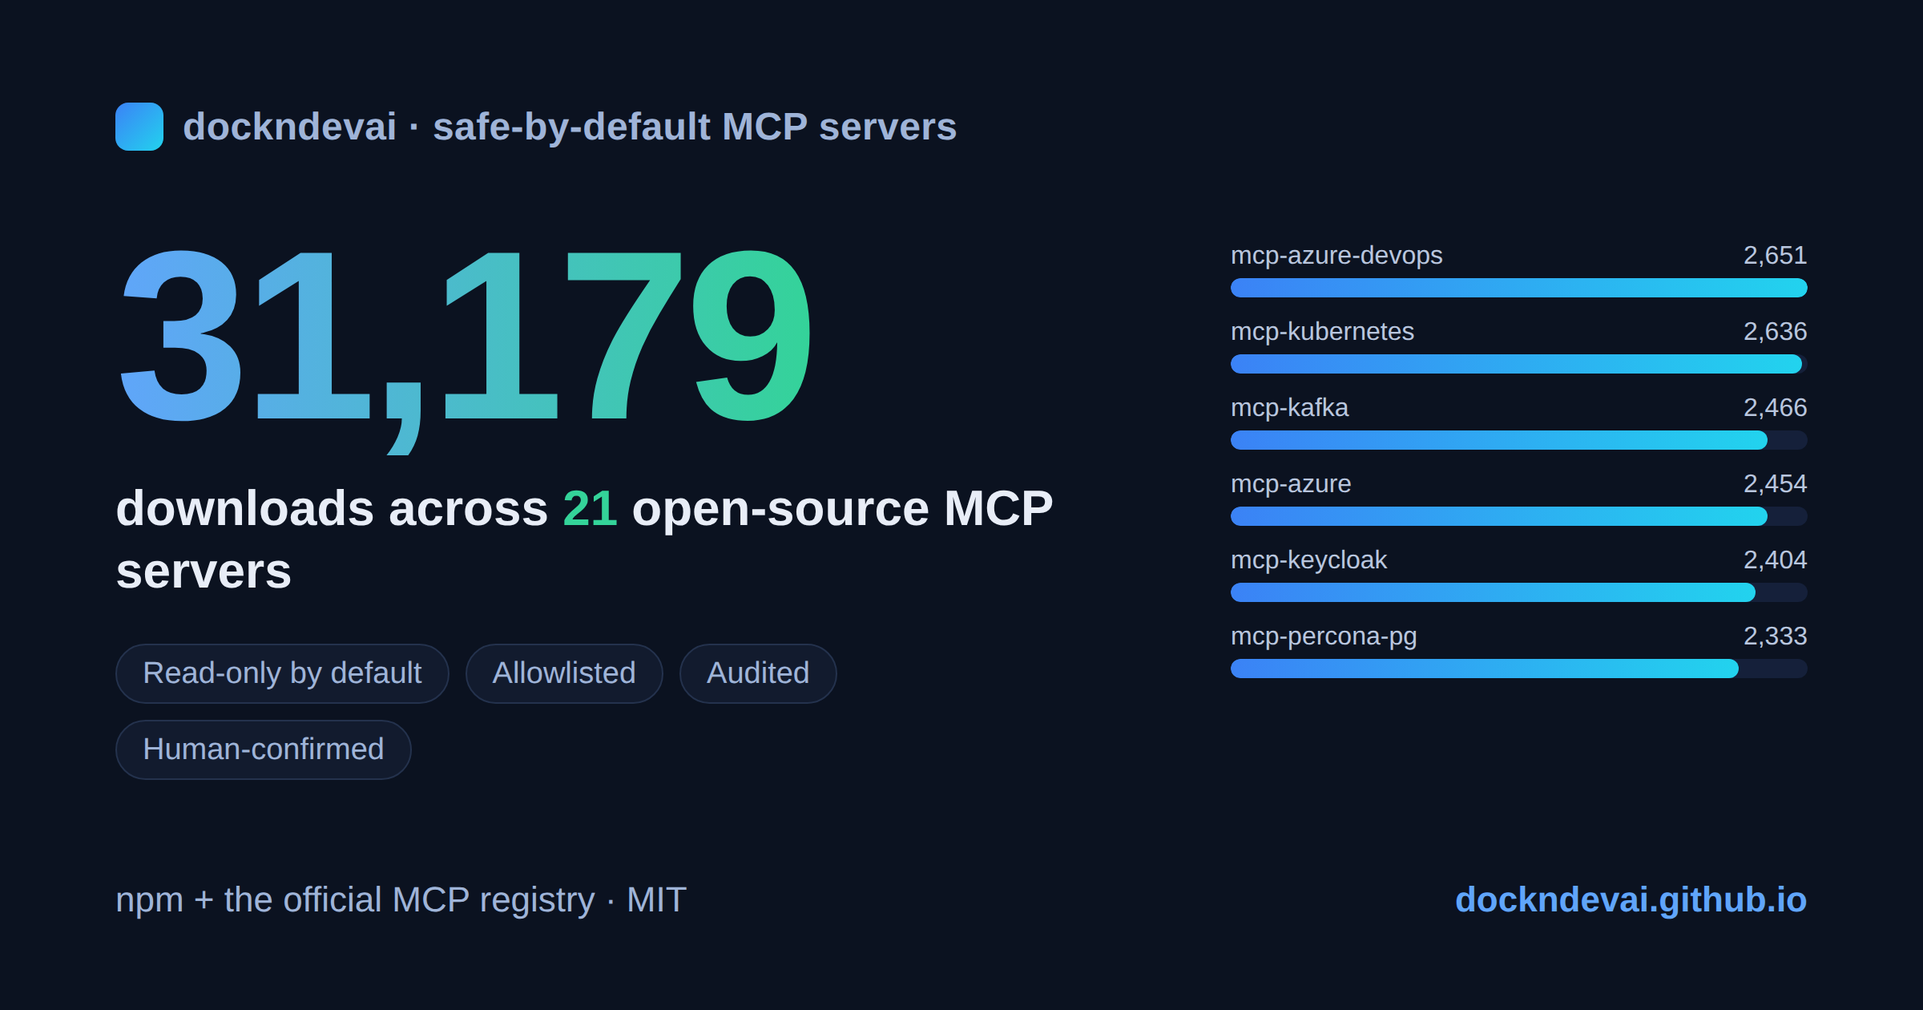
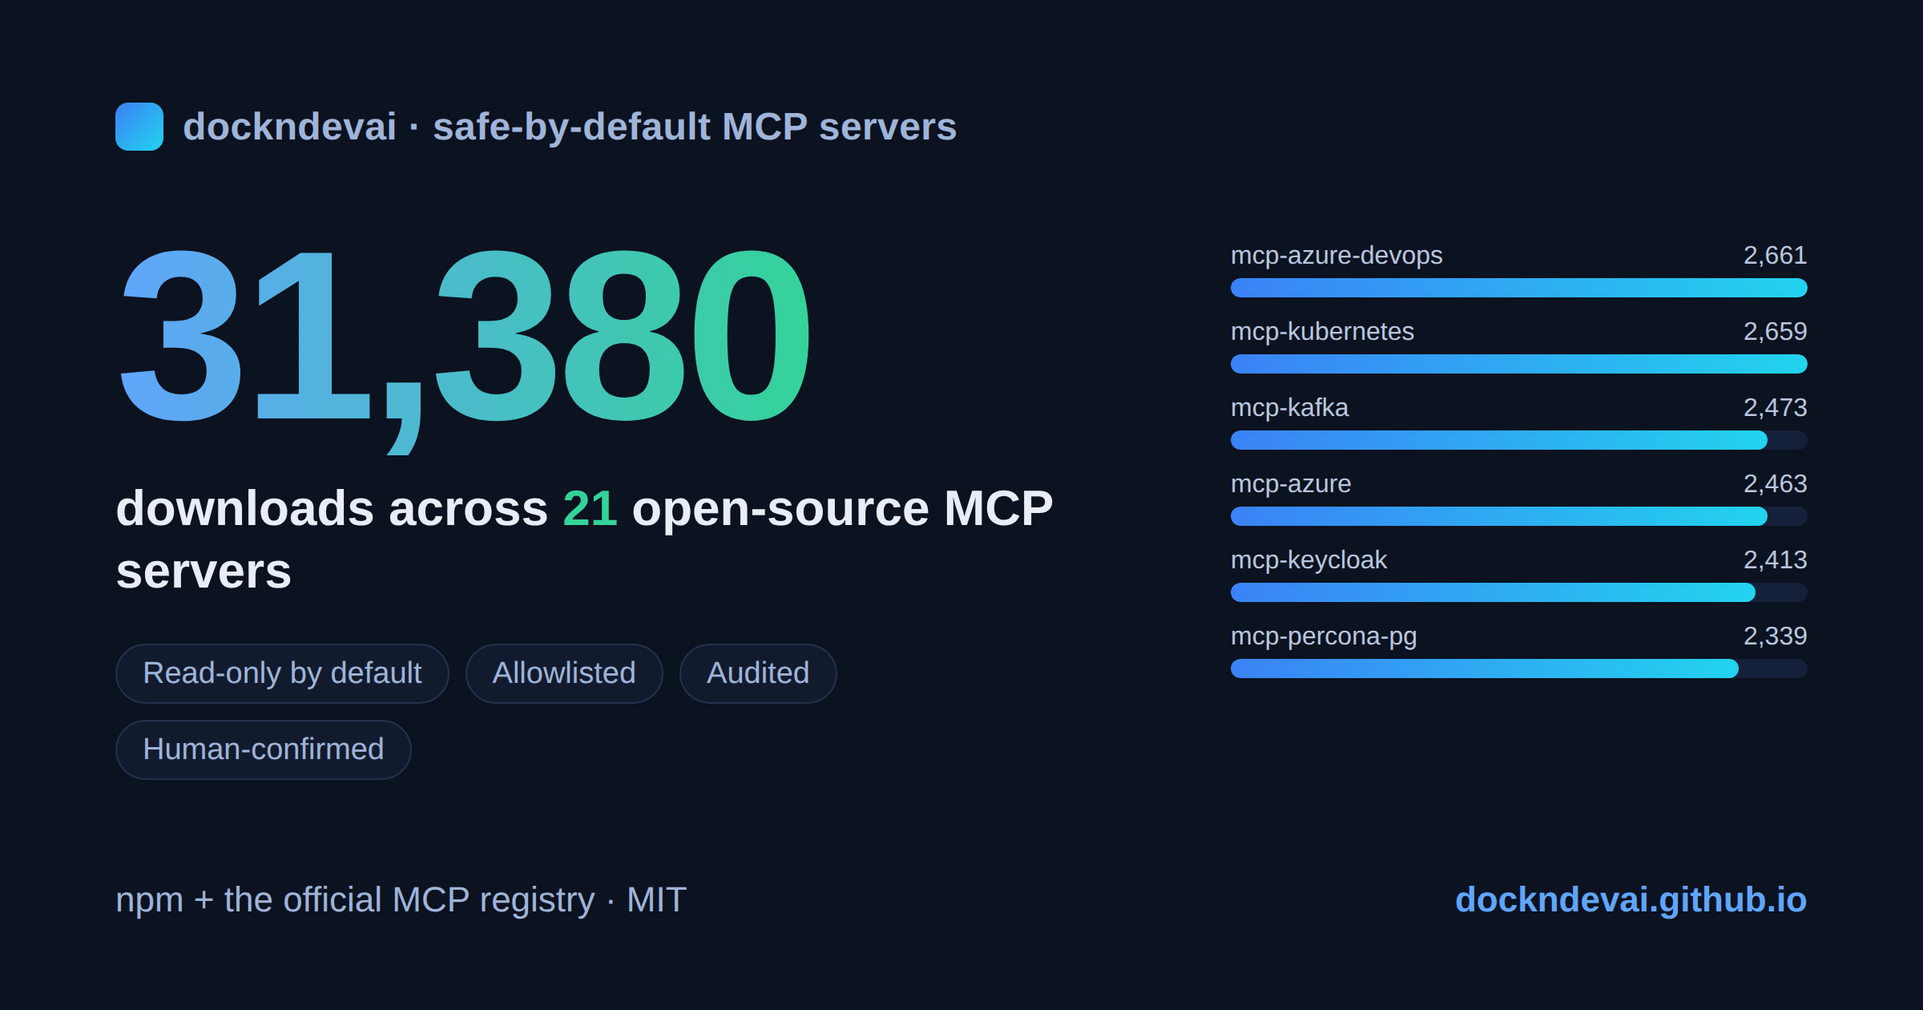
chore: refresh server list + downloads card from live data

diff --git a/index.html b/index.html
@@ -509,147 +509,147 @@
           <article class="srv" id="p-mcp-azure-devops">
             <div class="top"><h3><a href="https://github.com/dockndevai/mcp-azure-devops">mcp-azure-devops</a></h3><span class="tag k">TypeScript</span></div>
             <p>MCP server for Azure DevOps — boards, repos, pipelines, projects — with governance controls (access modes, project scoping, protected projects, delete gating, typed confirmation).</p>
-            <div class="meta"><span class="stat" title="GitHub stars">&#9733; 1</span><span class="stat" title="npm downloads, last 30 days">&#8595; 629/mo</span></div>
+            <div class="meta"><span class="stat" title="GitHub stars">&#9733; 1</span><span class="stat" title="npm downloads, last 30 days">&#8595; 635/mo</span></div>
             <div class="install"><code>npx -y @dockndevai/mcp-azure-devops</code><button class="copy" data-cmd="npx -y @dockndevai/mcp-azure-devops">Copy</button></div>
             <div class="links"><a href="https://github.com/dockndevai/mcp-azure-devops">GitHub</a><a href="https://www.npmjs.com/package/@dockndevai/mcp-azure-devops">npm</a></div>
           </article>
           <article class="srv" id="p-mcp-kubernetes">
             <div class="top"><h3><a href="https://github.com/dockndevai/mcp-kubernetes">mcp-kubernetes</a></h3><span class="tag k">TypeScript</span></div>
             <p>MCP server for Kubernetes — multi-cluster ops with security modes (read-only/read-write/admin) and access-control flags.</p>
-            <div class="meta"><span class="stat" title="GitHub stars">&#9733; 3</span><span class="stat" title="npm downloads, last 30 days">&#8595; 663/mo</span></div>
+            <div class="meta"><span class="stat" title="GitHub stars">&#9733; 3</span><span class="stat" title="npm downloads, last 30 days">&#8595; 677/mo</span></div>
             <div class="install"><code>npx -y @dockndevai/mcp-kubernetes</code><button class="copy" data-cmd="npx -y @dockndevai/mcp-kubernetes">Copy</button></div>
             <div class="links"><a href="https://github.com/dockndevai/mcp-kubernetes">GitHub</a><a href="https://www.npmjs.com/package/@dockndevai/mcp-kubernetes">npm</a></div>
           </article>
           <article class="srv" id="p-mcp-kafka">
             <div class="top"><h3><a href="https://github.com/dockndevai/mcp-kafka">mcp-kafka</a></h3><span class="tag k">TypeScript</span></div>
             <p>MCP server for Apache Kafka — monitor &amp; manage clusters, topics, and consumer groups (with lag), with security modes and access-control flags.</p>
-            <div class="meta"><span class="stat" title="GitHub stars">&#9733; 1</span><span class="stat" title="npm downloads, last 30 days">&#8595; 611/mo</span></div>
+            <div class="meta"><span class="stat" title="GitHub stars">&#9733; 2</span><span class="stat" title="npm downloads, last 30 days">&#8595; 615/mo</span></div>
             <div class="install"><code>npx -y @dockndevai/mcp-kafka</code><button class="copy" data-cmd="npx -y @dockndevai/mcp-kafka">Copy</button></div>
             <div class="links"><a href="https://github.com/dockndevai/mcp-kafka">GitHub</a><a href="https://www.npmjs.com/package/@dockndevai/mcp-kafka">npm</a></div>
           </article>
           <article class="srv" id="p-mcp-azure">
             <div class="top"><h3><a href="https://github.com/dockndevai/mcp-azure">mcp-azure</a></h3><span class="tag k">TypeScript</span></div>
             <p>MCP server for Azure (Resource Manager) — inventory, tags, VM power, lifecycle — with governance controls (scoping, protected groups, location allowlist, delete gating, confirmation).</p>
-            <div class="meta"><span class="stat" title="GitHub stars">&#9733; 1</span><span class="stat" title="npm downloads, last 30 days">&#8595; 392/mo</span></div>
+            <div class="meta"><span class="stat" title="GitHub stars">&#9733; 1</span><span class="stat" title="npm downloads, last 30 days">&#8595; 377/mo</span></div>
             <div class="install"><code>npx -y @dockndevai/mcp-azure</code><button class="copy" data-cmd="npx -y @dockndevai/mcp-azure">Copy</button></div>
             <div class="links"><a href="https://github.com/dockndevai/mcp-azure">GitHub</a><a href="https://www.npmjs.com/package/@dockndevai/mcp-azure">npm</a></div>
           </article>
           <article class="srv" id="p-mcp-keycloak">
             <div class="top"><h3><a href="https://github.com/dockndevai/mcp-keycloak">mcp-keycloak</a></h3><span class="tag k">TypeScript</span></div>
             <p>MCP server for Keycloak — multi-realm admin with security modes (read-only/read-write/admin) and access-control flags.</p>
-            <div class="meta"><span class="stat" title="GitHub stars">&#9733; 1</span><span class="stat" title="npm downloads, last 30 days">&#8595; 566/mo</span></div>
+            <div class="meta"><span class="stat" title="GitHub stars">&#9733; 1</span><span class="stat" title="npm downloads, last 30 days">&#8595; 568/mo</span></div>
             <div class="install"><code>npx -y @dockndevai/mcp-keycloak</code><button class="copy" data-cmd="npx -y @dockndevai/mcp-keycloak">Copy</button></div>
             <div class="links"><a href="https://github.com/dockndevai/mcp-keycloak">GitHub</a><a href="https://www.npmjs.com/package/@dockndevai/mcp-keycloak">npm</a></div>
           </article>
           <article class="srv" id="p-mcp-percona-pg">
             <div class="top"><h3><a href="https://github.com/dockndevai/mcp-percona-pg">mcp-percona-pg</a></h3><span class="tag k">TypeScript</span></div>
             <p>MCP server for the Percona Operator for PostgreSQL — manage PostgreSQL + PgBouncer, pooling, backups/PITR, and DR with safe-by-default security flags.</p>
-            <div class="meta"><span class="stat" title="GitHub stars">&#9733; 1</span><span class="stat" title="npm downloads, last 30 days">&#8595; 612/mo</span></div>
+            <div class="meta"><span class="stat" title="GitHub stars">&#9733; 1</span><span class="stat" title="npm downloads, last 30 days">&#8595; 616/mo</span></div>
             <div class="install"><code>npx -y @dockndevai/mcp-percona-pg</code><button class="copy" data-cmd="npx -y @dockndevai/mcp-percona-pg">Copy</button></div>
             <div class="links"><a href="https://github.com/dockndevai/mcp-percona-pg">GitHub</a><a href="https://www.npmjs.com/package/@dockndevai/mcp-percona-pg">npm</a></div>
           </article>
           <article class="srv" id="p-mcp-clickhouse">
             <div class="top"><h3><a href="https://github.com/dockndevai/mcp-clickhouse">mcp-clickhouse</a></h3><span class="tag k">TypeScript</span></div>
             <p>MCP server for ClickHouse — explore, query, and manage with SQL-classification-based security modes and access-control flags.</p>
-            <div class="meta"><span class="stat" title="GitHub stars">&#9733; 3</span><span class="stat" title="npm downloads, last 30 days">&#8595; 367/mo</span></div>
+            <div class="meta"><span class="stat" title="GitHub stars">&#9733; 3</span><span class="stat" title="npm downloads, last 30 days">&#8595; 374/mo</span></div>
             <div class="install"><code>npx -y @dockndevai/mcp-clickhouse</code><button class="copy" data-cmd="npx -y @dockndevai/mcp-clickhouse">Copy</button></div>
             <div class="links"><a href="https://github.com/dockndevai/mcp-clickhouse">GitHub</a><a href="https://www.npmjs.com/package/@dockndevai/mcp-clickhouse">npm</a></div>
           </article>
           <article class="srv" id="p-mcp-debezium">
             <div class="top"><h3><a href="https://github.com/dockndevai/mcp-debezium">mcp-debezium</a></h3><span class="tag k">TypeScript</span></div>
             <p>MCP server for Debezium / Kafka Connect — monitor &amp; manage CDC connectors with security modes and access-control flags.</p>
-            <div class="meta"><span class="stat" title="GitHub stars">&#9733; 1</span><span class="stat" title="npm downloads, last 30 days">&#8595; 301/mo</span></div>
+            <div class="meta"><span class="stat" title="GitHub stars">&#9733; 1</span><span class="stat" title="npm downloads, last 30 days">&#8595; 307/mo</span></div>
             <div class="install"><code>npx -y @dockndevai/mcp-debezium</code><button class="copy" data-cmd="npx -y @dockndevai/mcp-debezium">Copy</button></div>
             <div class="links"><a href="https://github.com/dockndevai/mcp-debezium">GitHub</a><a href="https://www.npmjs.com/package/@dockndevai/mcp-debezium">npm</a></div>
           </article>
           <article class="srv" id="p-mcp-grafana">
             <div class="top"><h3><a href="https://github.com/dockndevai/mcp-grafana">mcp-grafana</a></h3><span class="tag k">TypeScript</span></div>
             <p>MCP server for Grafana — search &amp; edit dashboards, query datasources (Prometheus/Loki/SQL), inspect alerts, with safe-by-default access modes.</p>
-            <div class="meta"><span class="stat" title="GitHub stars">&#9733; 1</span><span class="stat" title="npm downloads, last 30 days">&#8595; 539/mo</span></div>
+            <div class="meta"><span class="stat" title="GitHub stars">&#9733; 1</span><span class="stat" title="npm downloads, last 30 days">&#8595; 540/mo</span></div>
             <div class="install"><code>npx -y @dockndevai/mcp-grafana</code><button class="copy" data-cmd="npx -y @dockndevai/mcp-grafana">Copy</button></div>
             <div class="links"><a href="https://github.com/dockndevai/mcp-grafana">GitHub</a><a href="https://www.npmjs.com/package/@dockndevai/mcp-grafana">npm</a></div>
           </article>
           <article class="srv" id="p-mcp-oci">
             <div class="top"><h3><a href="https://github.com/dockndevai/mcp-oci">mcp-oci</a></h3><span class="tag k">TypeScript</span></div>
             <p>MCP server for Oracle Cloud (OCI) — live resource discovery, dependency mapping, and Terraform generation, with security modes and access-control flags.</p>
-            <div class="meta"><span class="stat" title="GitHub stars">&#9733; 1</span><span class="stat" title="npm downloads, last 30 days">&#8595; 321/mo</span></div>
+            <div class="meta"><span class="stat" title="GitHub stars">&#9733; 1</span><span class="stat" title="npm downloads, last 30 days">&#8595; 324/mo</span></div>
             <div class="install"><code>npx -y @dockndevai/mcp-oci</code><button class="copy" data-cmd="npx -y @dockndevai/mcp-oci">Copy</button></div>
             <div class="links"><a href="https://github.com/dockndevai/mcp-oci">GitHub</a><a href="https://www.npmjs.com/package/@dockndevai/mcp-oci">npm</a></div>
           </article>
           <article class="srv" id="p-mcp-outlook">
             <div class="top"><h3><a href="https://github.com/dockndevai/mcp-outlook">mcp-outlook</a></h3><span class="tag k">TypeScript</span></div>
             <p>Safe-by-default MCP server for Microsoft Outlook mail (Microsoft Graph) — read, search, draft, send, reply, forward and organize email, with browser sign-in.</p>
-            <div class="meta"><span class="stat" title="GitHub stars">&#9733; 0</span><span class="stat" title="npm downloads, last 30 days">&#8595; 357/mo</span></div>
+            <div class="meta"><span class="stat" title="GitHub stars">&#9733; 0</span><span class="stat" title="npm downloads, last 30 days">&#8595; 362/mo</span></div>
             <div class="install"><code>npx -y @dockndevai/mcp-outlook</code><button class="copy" data-cmd="npx -y @dockndevai/mcp-outlook">Copy</button></div>
             <div class="links"><a href="https://github.com/dockndevai/mcp-outlook">GitHub</a><a href="https://www.npmjs.com/package/@dockndevai/mcp-outlook">npm</a></div>
           </article>
           <article class="srv" id="p-ossian-mcp">
             <div class="top"><h3><a href="https://github.com/dockndevai/ossian-mcp">ossian-mcp</a></h3><span class="tag k">TypeScript</span></div>
             <p>MCP server for Ossian — ask your own documents with citations, and give an agent memory that persists</p>
-            <div class="meta"><span class="stat" title="GitHub stars">&#9733; 2</span><span class="stat" title="npm downloads, last 30 days">&#8595; 211/mo</span></div>
+            <div class="meta"><span class="stat" title="GitHub stars">&#9733; 2</span><span class="stat" title="npm downloads, last 30 days">&#8595; 214/mo</span></div>
             <div class="install"><code>npx -y ossian-mcp</code><button class="copy" data-cmd="npx -y ossian-mcp">Copy</button></div>
             <div class="links"><a href="https://github.com/dockndevai/ossian-mcp">GitHub</a><a href="https://www.npmjs.com/package/ossian-mcp">npm</a></div>
           </article>
           <article class="srv" id="p-mcp-cdp">
             <div class="top"><h3><a href="https://github.com/dockndevai/mcp-cdp">mcp-cdp</a></h3><span class="tag k">TypeScript</span></div>
             <p>Model Context Protocol server that drives an Electron/Chrome app over the DevTools Protocol (CDP) — DOM, console, network, click/type/navigate and gated JS eval — safe by default, cross-OS.</p>
-            <div class="meta"><span class="stat" title="GitHub stars">&#9733; 1</span><span class="stat" title="npm downloads, last 30 days">&#8595; 500/mo</span></div>
+            <div class="meta"><span class="stat" title="GitHub stars">&#9733; 1</span><span class="stat" title="npm downloads, last 30 days">&#8595; 513/mo</span></div>
             <div class="install"><code>npx -y @dockndevai/mcp-cdp</code><button class="copy" data-cmd="npx -y @dockndevai/mcp-cdp">Copy</button></div>
             <div class="links"><a href="https://github.com/dockndevai/mcp-cdp">GitHub</a><a href="https://www.npmjs.com/package/@dockndevai/mcp-cdp">npm</a></div>
           </article>
           <article class="srv" id="p-mcp-mac-control">
             <div class="top"><h3><a href="https://github.com/dockndevai/mcp-mac-control">mcp-mac-control</a></h3><span class="tag k">TypeScript</span></div>
             <p>Full macOS control MCP server — drive a Mac like a human: shell, AppleScript, files, processes, and human-like GUI (click, drag, scroll, type). Full control by default; opt-in safe mode.</p>
-            <div class="meta"><span class="stat" title="GitHub stars">&#9733; 0</span><span class="stat" title="npm downloads, last 30 days">&#8595; 155/mo</span></div>
+            <div class="meta"><span class="stat" title="GitHub stars">&#9733; 0</span><span class="stat" title="npm downloads, last 30 days">&#8595; 164/mo</span></div>
             <div class="install"><code>npx -y @dockndevai/mcp-mac-control</code><button class="copy" data-cmd="npx -y @dockndevai/mcp-mac-control">Copy</button></div>
             <div class="links"><a href="https://github.com/dockndevai/mcp-mac-control">GitHub</a><a href="https://www.npmjs.com/package/@dockndevai/mcp-mac-control">npm</a></div>
           </article>
           <article class="srv" id="p-mcp-macos">
             <div class="top"><h3><a href="https://github.com/dockndevai/mcp-macos">mcp-macos</a></h3><span class="tag k">TypeScript</span></div>
             <p>Safe-by-default MCP server to observe &amp; operate a Mac — files, processes, apps, shell, AppleScript, GUI.</p>
-            <div class="meta"><span class="stat" title="GitHub stars">&#9733; 0</span><span class="stat" title="npm downloads, last 30 days">&#8595; 191/mo</span></div>
+            <div class="meta"><span class="stat" title="GitHub stars">&#9733; 0</span><span class="stat" title="npm downloads, last 30 days">&#8595; 188/mo</span></div>
             <div class="install"><code>npx -y @dockndevai/mcp-macos</code><button class="copy" data-cmd="npx -y @dockndevai/mcp-macos">Copy</button></div>
             <div class="links"><a href="https://github.com/dockndevai/mcp-macos">GitHub</a><a href="https://www.npmjs.com/package/@dockndevai/mcp-macos">npm</a></div>
           </article>
           <article class="srv" id="p-mcp-teams">
             <div class="top"><h3><a href="https://github.com/dockndevai/mcp-teams">mcp-teams</a></h3><span class="tag k">TypeScript</span></div>
             <p>Safe-by-default MCP server for Microsoft Teams (Microsoft Graph) — read teams, channels, chats and messages, and post/reply/send, with browser sign-in.</p>
-            <div class="meta"><span class="stat" title="GitHub stars">&#9733; 0</span><span class="stat" title="npm downloads, last 30 days">&#8595; 225/mo</span></div>
+            <div class="meta"><span class="stat" title="GitHub stars">&#9733; 0</span><span class="stat" title="npm downloads, last 30 days">&#8595; 235/mo</span></div>
             <div class="install"><code>npx -y @dockndevai/mcp-teams</code><button class="copy" data-cmd="npx -y @dockndevai/mcp-teams">Copy</button></div>
             <div class="links"><a href="https://github.com/dockndevai/mcp-teams">GitHub</a><a href="https://www.npmjs.com/package/@dockndevai/mcp-teams">npm</a></div>
           </article>
           <article class="srv" id="p-mcp-openshift">
             <div class="top"><h3><a href="https://github.com/dockndevai/mcp-openshift">mcp-openshift</a></h3><span class="tag k">TypeScript</span></div>
             <p>Safe-by-default MCP server for OpenShift / Kubernetes — projects, pods, logs, deployments, routes and more, with username/password (local IdP) or token auth.</p>
-            <div class="meta"><span class="stat" title="GitHub stars">&#9733; 0</span><span class="stat" title="npm downloads, last 30 days">&#8595; 158/mo</span></div>
+            <div class="meta"><span class="stat" title="GitHub stars">&#9733; 0</span><span class="stat" title="npm downloads, last 30 days">&#8595; 164/mo</span></div>
             <div class="install"><code>npx -y @dockndevai/mcp-openshift</code><button class="copy" data-cmd="npx -y @dockndevai/mcp-openshift">Copy</button></div>
             <div class="links"><a href="https://github.com/dockndevai/mcp-openshift">GitHub</a><a href="https://www.npmjs.com/package/@dockndevai/mcp-openshift">npm</a></div>
           </article>
           <article class="srv" id="p-mcp-github-enterprise">
             <div class="top"><h3><a href="https://github.com/dockndevai/mcp-github-enterprise">mcp-github-enterprise</a></h3><span class="tag k">TypeScript</span></div>
             <p>Safe-by-default MCP server for GitHub Enterprise — orgs, repos, teams, rulesets, security alerts &amp; Actions, with a security-posture baseline and governance controls (read-only by default, org-scoped, audited, human-confirmed).</p>
-            <div class="meta"><span class="stat" title="GitHub stars">&#9733; 0</span><span class="stat" title="npm downloads, last 30 days">&#8595; 586/mo</span></div>
+            <div class="meta"><span class="stat" title="GitHub stars">&#9733; 0</span><span class="stat" title="npm downloads, last 30 days">&#8595; 594/mo</span></div>
             <div class="install"><code>npx -y @dockndevai/mcp-github-enterprise</code><button class="copy" data-cmd="npx -y @dockndevai/mcp-github-enterprise">Copy</button></div>
             <div class="links"><a href="https://github.com/dockndevai/mcp-github-enterprise">GitHub</a><a href="https://www.npmjs.com/package/@dockndevai/mcp-github-enterprise">npm</a></div>
           </article>
           <article class="srv" id="p-mcp-android">
             <div class="top"><h3><a href="https://github.com/dockndevai/mcp-android">mcp-android</a></h3><span class="tag k">TypeScript</span></div>
             <p>MCP server to control an Android device over ADB — screenshots, taps, typing, app launch, alarms, notifications — safe-by-default with access modes and gated destructive ops.</p>
-            <div class="meta"><span class="stat" title="GitHub stars">&#9733; 0</span><span class="stat" title="npm downloads, last 30 days">&#8595; 207/mo</span></div>
+            <div class="meta"><span class="stat" title="GitHub stars">&#9733; 0</span><span class="stat" title="npm downloads, last 30 days">&#8595; 210/mo</span></div>
             <div class="install"><code>npx -y @dockndevai/mcp-android</code><button class="copy" data-cmd="npx -y @dockndevai/mcp-android">Copy</button></div>
             <div class="links"><a href="https://github.com/dockndevai/mcp-android">GitHub</a><a href="https://www.npmjs.com/package/@dockndevai/mcp-android">npm</a></div>
           </article>
           <article class="srv" id="p-mcp-ios">
             <div class="top"><h3><a href="https://github.com/dockndevai/mcp-ios">mcp-ios</a></h3><span class="tag k">TypeScript</span></div>
             <p>MCP server to drive a physical iPhone/iPad over Appium + WebDriverAgent (XCUITest) — safe-by-default with access modes and gated destructive ops.</p>
-            <div class="meta"><span class="stat" title="GitHub stars">&#9733; 1</span><span class="stat" title="npm downloads, last 30 days">&#8595; 203/mo</span></div>
+            <div class="meta"><span class="stat" title="GitHub stars">&#9733; 1</span><span class="stat" title="npm downloads, last 30 days">&#8595; 205/mo</span></div>
             <div class="install"><code>npx -y @dockndevai/mcp-ios</code><button class="copy" data-cmd="npx -y @dockndevai/mcp-ios">Copy</button></div>
             <div class="links"><a href="https://github.com/dockndevai/mcp-ios">GitHub</a><a href="https://www.npmjs.com/package/@dockndevai/mcp-ios">npm</a></div>
           </article>
           <article class="srv" id="p-mcp-laya">
             <div class="top"><h3><a href="https://github.com/dockndevai/mcp-laya">mcp-laya</a></h3><span class="tag k">Python</span></div>
             <p>Safe-by-default MCP server for Laya — fast, local, non-autoregressive typed decisions (classify / score / yes-no) for AI agents, in 100+ languages.</p>
-            <div class="meta"><span class="stat" title="GitHub stars">&#9733; 0</span><span class="stat" title="PyPI downloads, last 30 days">&#8595; 180/mo</span></div>
+            <div class="meta"><span class="stat" title="GitHub stars">&#9733; 0</span><span class="stat" title="PyPI downloads, last 30 days">&#8595; 182/mo</span></div>
             <div class="install"><code>pipx install mcp-laya</code><button class="copy" data-cmd="pipx install mcp-laya">Copy</button></div>
             <div class="links"><a href="https://github.com/dockndevai/mcp-laya">GitHub</a><a href="https://pypi.org/project/mcp-laya/">PyPI</a></div>
           </article>
